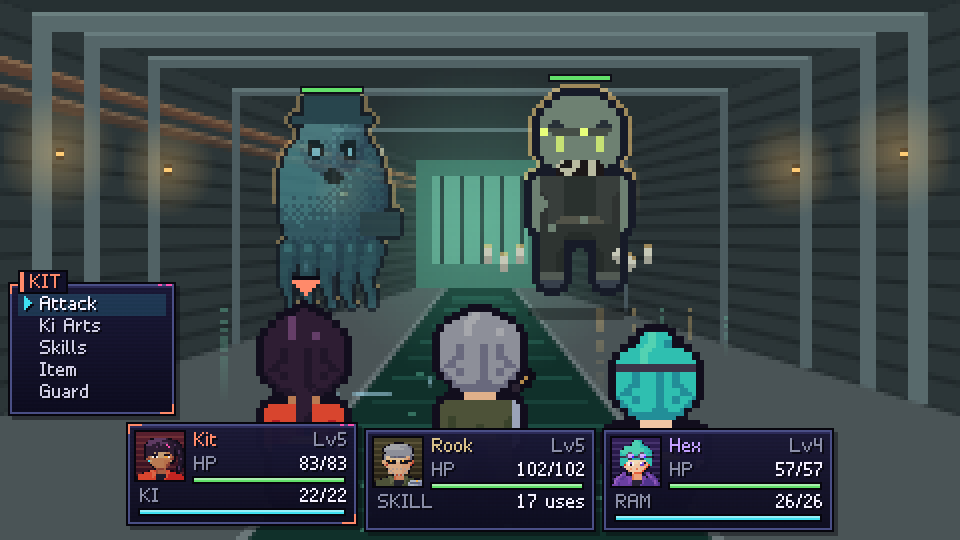
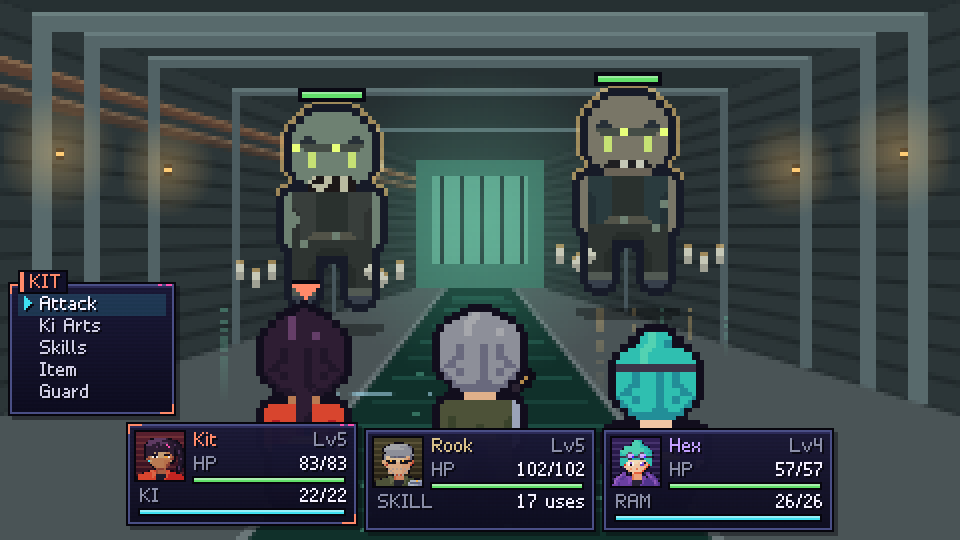
Round 5 (part 6): battle presentation
- Enemies act with their bodies: strikes rear back and lunge, guns kick, casters rise and gather light
- Heavy hits and crits stagger enemies back
- Duplicate creatures carry individual markings (unit stencils, scars, motes) on top of the palette shift
- Enemy HP bars: 3px on a solid plate, readable over neon
- The Warden's reactor room: server racks, coolant towers, ceiling pipes, sweeping alarm beacons

Changed region(s): [[0.5, 0.1185, 0.75, 0.5926], [0.25, 0.1481, 0.4375, 0.6222], [0.6562, 0.563, 0.6875, 0.5926]]

diff --git a/src/scenes/battle.ts b/src/scenes/battle.ts
@@ -615,13 +615,15 @@ export class BattleScene extends Scene<'win' | 'lose' | 'run'> {
           if (e.fx === 'flash_step' || e.fx === 'rain_hits') dd.afterimage = 22;
           sfx(e.kind === 'tech' ? 'cast' : 'swing');
         } else {
-          dd.flash = 8;
-          dd.lunge = 5;
+          // Enemies act with their bodies: strikes wind up and lunge, guns kick, casters rise and glow.
+          const motion = enemyMotion(e.fx);
+          this.setPose(actor, motion, ENEMY_POSE_T);
+          if (motion !== 'attack') dd.flash = 8;
           sfx('enemy_act');
         }
         const cry = e.kind === 'enemy' ? ABILITIES[e.id]?.cry : undefined;
         if (cry) this.say(cry);
-        await this.w(e.kind === 'attack' ? 8 : 16);
+        await this.w(actor.side === 'enemy' ? 12 : e.kind === 'attack' ? 8 : 16);
         const timing = this.fx.play(e.fx, this.pos(e.actor), e.targets.map((t) => this.pos(t)), e.element === 'shock' ? '#9ae8ff' : undefined);
         sfx(fxSound(e.fx));
         await this.w(timing.impact);
@@ -658,6 +660,7 @@ export class BattleScene extends Scene<'win' | 'lose' | 'run'> {
         dd.hp = e.hp;
         dd.shake = 12;
         dd.flash = u.side === 'enemy' ? 5 : 8;
+        if (u.side === 'enemy' && e.hp > 0 && (e.crit || e.amount >= u.base.maxHp * 0.12)) this.setPose(u, 'hurt', 16);
         if (u.side === 'party' && e.hp > 0) this.setPose(u, 'hurt', 16);
         const p = this.floatPos(e.target);
         if (e.amount === 0) this.float('NO EFFECT', p, '#8b8fa8', false);
@@ -1155,7 +1158,7 @@ export class BattleScene extends Scene<'win' | 'lose' | 'run'> {
     // Duplicates: a distinct individual where the sprite has one, else a palette and mirror.
     const who = dup ? enemyArt(ENEMIES[e.key]!.sprite, dup) : art;
     const flip = (c: HTMLCanvasElement) => (dup % 2 ? mirrored(c) : c);
-    const canvas = who.individual ? flip(who.canvas) : variant(art.canvas, dup);
+    const canvas = who.individual ? flip(who.canvas) : marked(variant(art.canvas, dup), e.family ?? '', dup);
     const glow = who.individual ? who.glow && flip(who.glow) : art.glow && variant(art.glow, dup);
     let ox = 0, oy = 0;
     switch (art.idle) {
@@ -1167,6 +1170,28 @@ export class BattleScene extends Scene<'win' | 'lose' | 'run'> {
     }
     if (dd.shake > 0) ox += dd.shake % 4 < 2 ? 2 : -2;
     oy += Math.round(dd.lunge);
+    // Body motion while acting or reeling (battle-world pixels; the party is below).
+    let castGlow = 0;
+    if (dd.poseT > 0) {
+      const k = dd.pose === 'hurt' ? 16 - dd.poseT : ENEMY_POSE_T - dd.poseT;
+      switch (dd.pose) {
+        case 'attack': // rear back, lunge down at the crew, settle
+          oy += k < 9 ? -Math.round(k / 3) : k < 15 ? Math.round((k - 9) * 1.6) - 3 : Math.max(0, 7 - (k - 15));
+          break;
+        case 'aim': // shoulder the kick
+          oy += k >= 10 && k < 16 ? -2 : 0;
+          ox += k >= 10 && k < 13 ? (e.uid % 2 ? 1 : -1) : 0;
+          break;
+        case 'cast': // lift and gather light
+          oy -= Math.round(Math.min(3, k / 3) * (k < 24 ? 1 : Math.max(0, 1 - (k - 24) / 8)));
+          castGlow = Math.sin(Math.min(1, k / 22) * Math.PI) * 0.45;
+          break;
+        case 'hurt': // knocked back, then recover
+          oy -= k < 6 ? 2 : k < 12 ? 1 : 0;
+          ox += k < 10 ? (e.uid % 2 ? 2 : -2) : 0;
+          break;
+      }
+    }
     const dx = x + ox, dy = y + oy;
     // Shadow
     if (art.shadow) {
@@ -1200,6 +1225,11 @@ export class BattleScene extends Scene<'win' | 'lose' | 'run'> {
       g.globalAlpha = alpha;
     }
     if (glow) g.drawImage(glow, dx, dy);
+    if (castGlow > 0) {
+      g.globalAlpha = alpha * castGlow;
+      g.drawImage(silhouetteCache(canvas, '#e8d8ff'), dx, dy);
+      g.globalAlpha = alpha;
+    }
     if (dd.flash > 0 && dd.flash % 4 < 2) {
       g.globalAlpha = 0.85 * alpha;
       g.drawImage(silhouetteCache(canvas, '#ffffff'), dx, dy);
@@ -1320,11 +1350,16 @@ export class BattleScene extends Scene<'win' | 'lose' | 'run'> {
       // HP bar (bosses get a wider one).
       const bw = e.boss ? 72 : 30;
       const ratio = Math.max(0, dd.shownHp / e.base.maxHp);
-      ctx.fillStyle = 'rgba(10,9,19,0.85)';
-      ctx.fillRect(cx0 - bw / 2 - 1, row - 1, bw + 2, 4);
+      // A solid dark plate and a 3px bar, so it holds up over bright signage.
+      ctx.fillStyle = '#0a0913';
+      ctx.fillRect(cx0 - bw / 2 - 2, row - 2, bw + 4, 7);
+      ctx.fillStyle = '#2a2838';
+      ctx.fillRect(cx0 - bw / 2, row, bw, 3);
       ctx.fillStyle = hpColor(ratio);
-      ctx.fillRect(cx0 - bw / 2, row, Math.round(bw * ratio), 2);
-      drawLag(ctx, cx0 - bw / 2, row, bw, 2, ratio, dd.lagHp / e.base.maxHp);
+      ctx.fillRect(cx0 - bw / 2, row, Math.round(bw * ratio), 3);
+      ctx.fillStyle = 'rgba(255,255,255,0.35)';
+      ctx.fillRect(cx0 - bw / 2, row, Math.round(bw * ratio), 1);
+      drawLag(ctx, cx0 - bw / 2, row, bw, 3, ratio, dd.lagHp / e.base.maxHp);
       row -= 11;
       // Status chips: measure, then draw (two passes, nothing allocated per frame).
       let count = 0, total = 0;
@@ -1688,6 +1723,67 @@ function opaqueTop(c: HTMLCanvasElement): number {
 
 const flipCache = new WeakMap<HTMLCanvasElement, HTMLCanvasElement>();
 /** Horizontally mirrored copy (cached): every other duplicate enemy faces the other way. */
+/** How long an enemy's action pose runs, in frames. */
+const ENEMY_POSE_T = 30;
+
+/** An enemy move's body motion, from its effect: melee strikes, gunfire, or casting. */
+function enemyMotion(fx: string): Pose {
+  if (['slash', 'claw', 'whip', 'punch', 'bite', 'crush', 'coil', 'palm'].includes(fx)) return 'attack';
+  if (['gunfire', 'shot', 'beam', 'bolt', 'zap', 'lightning', 'target_lock'].includes(fx)) return 'aim';
+  return 'cast';
+}
+
+/**
+ * Markings that make a second or third creature an individual, not a recolour: machines carry a
+ * stencilled unit number and a hazard stripe, beasts a scar, spirits a cluster of bright motes.
+ * Painted only onto opaque pixels, near the body's middle.
+ */
+const markCache = new WeakMap<HTMLCanvasElement, Map<string, HTMLCanvasElement>>();
+const DIGITS: Record<string, string[]> = {
+  '2': ['111', '001', '111', '100', '111'], '3': ['111', '001', '011', '001', '111'], '4': ['101', '101', '111', '001', '001'],
+};
+function marked(src: HTMLCanvasElement, family: string, dup: number): HTMLCanvasElement {
+  if (dup === 0 || !['machine', 'beast', 'spirit'].includes(family)) return src;
+  let m = markCache.get(src);
+  if (!m) {
+    m = new Map();
+    markCache.set(src, m);
+  }
+  const key = `${family}:${dup}`;
+  let c = m.get(key);
+  if (c) return c;
+  const w = src.width, h = src.height;
+  const s = surface(w, h);
+  s.ctx.drawImage(src, 0, 0);
+  const data = s.ctx.getImageData(0, 0, w, h).data;
+  const solid = (x: number, y: number) => x >= 0 && y >= 0 && x < w && y < h && data[(y * w + x) * 4 + 3]! > 200;
+  // Opaque bounds, to find the body's middle.
+  let x0 = w, y0 = h, x1 = 0, y1 = 0;
+  for (let y = 0; y < h; y++) for (let x = 0; x < w; x++) if (solid(x, y)) { x0 = Math.min(x0, x); y0 = Math.min(y0, y); x1 = Math.max(x1, x); y1 = Math.max(y1, y); }
+  const cx = Math.round((x0 + x1) / 2), cy = Math.round(y0 + (y1 - y0) * 0.45);
+  const dot = (x: number, y: number, col: string) => {
+    if (!solid(x, y)) return;
+    s.ctx.fillStyle = col;
+    s.ctx.fillRect(x, y, 1, 1);
+  };
+  if (family === 'machine') {
+    const glyph = DIGITS[String(Math.min(4, dup + 1))]!;
+    const gx = cx - 5, gy = cy - 2;
+    for (let j = 0; j < glyph.length; j++) {
+      for (let i = 0; i < 3; i++) if (glyph[j]![i] === '1') dot(gx + i, gy + j, '#f0e8c8');
+    }
+    for (let i = 0; i < 5; i++) dot(cx + 2 + i, cy - 4 + i, i % 2 ? '#1a1820' : '#ffcc3d');
+  } else if (family === 'beast') {
+    const dir = dup % 2 ? 1 : -1;
+    for (let i = 0; i < 6; i++) dot(cx + dir * (i - 2), cy - 3 + i, i % 3 === 1 ? '#f0c0b8' : '#c07878');
+  } else {
+    for (const [dx, dy] of [[-3, -2], [2, -3], [0, 2], [4, 1]] as const) dot(cx + dx * dup, cy + dy, '#ffffff');
+  }
+  c = s.canvas;
+  m.set(key, c);
+  return c;
+}
+
 /** Rim-light colour per battle backdrop: a light the enemies catch that the set doesn't have. */
 const RIM: Record<string, string> = {
   street: '#ffc27a', barrens: '#9ae8ff', rustyard: '#9ae8ff', park: '#ffd0f0',

diff --git a/src/art/battlebg.ts b/src/art/battlebg.ts
@@ -593,6 +593,26 @@ const MAKERS: Record<string, Maker> = {
     const s = surface(BW, BH), gl = surface(BW, BH);
     const c = s.ctx, g = gl.ctx;
     ditherV(c, 0, 0, BW, HORIZON + 4, ['#0a0612', '#1a0a1e', '#2a0e24']);
+    // Back wall: server racks with blinking status lights, pipes along the ceiling.
+    for (let x = 4; x < BW; x += 26) {
+      if (Math.abs(x + 9 - BW / 2) < 58) continue; // leave the containment ring clear
+      c.fillStyle = '#140c1a'; c.fillRect(x, 18, 18, HORIZON - 22);
+      c.fillStyle = '#221628'; c.fillRect(x + 1, 19, 16, 1);
+      for (let y = 24; y < HORIZON - 8; y += 5) {
+        c.fillStyle = '#1c1224'; c.fillRect(x + 2, y, 14, 3);
+        for (const k of [c, g]) { k.fillStyle = (x + y) % 3 ? '#62e06a' : '#ff5a4a'; k.fillRect(x + 3 + ((x * 7 + y) % 9), y + 1, 1, 1); }
+      }
+    }
+    for (const [y, col] of [[4, '#2a2030'], [8, '#241a2a'], [11, '#30243a']] as const) {
+      c.fillStyle = col; c.fillRect(0, y, BW, 2);
+      for (let x = 12; x < BW; x += 30) { c.fillStyle = '#3a3040'; c.fillRect(x, y - 1, 3, 4); }
+    }
+    // Coolant towers either side, lit bands glowing.
+    for (const tx of [14, BW - 30]) {
+      c.fillStyle = '#1a1422'; c.fillRect(tx, 14, 16, HORIZON - 12);
+      c.fillStyle = '#2a2034'; c.fillRect(tx + 2, 14, 3, HORIZON - 12);
+      for (let y = 20; y < HORIZON; y += 9) for (const k of [c, g]) { k.fillStyle = '#6ff3ff'; k.fillRect(tx + 1, y, 14, 1); }
+    }
     // Containment ring
     for (let r = 50; r > 30; r -= 1) {
       c.strokeStyle = r % 4 === 0 ? '#3a3040' : '#2a2030';
@@ -614,11 +634,21 @@ const MAKERS: Record<string, Maker> = {
     return {
       canvas: s.canvas, glow: gl.canvas, ground: 98, tint: '#6a2a4a', tintAmt: 0.2,
       anim: (ctx, f) => {
-        // Alarm sweep
-        const a = 0.12 + 0.1 * Math.sin(f * 0.1);
+        // Alarm: a lighter red pulse, and two beacon beams sweeping the ceiling.
+        const a = 0.06 + 0.05 * Math.sin(f * 0.1);
         ctx.fillStyle = '#ff2a3a';
         ctx.globalAlpha = a;
         ctx.fillRect(0, 0, BW, BH);
+        for (const [bx, ph] of [[22, 0], [BW - 22, Math.PI]] as const) {
+          const ang = Math.sin(f * 0.05 + ph) * 0.9;
+          ctx.globalAlpha = 0.18;
+          for (let r = 4; r < 70; r += 2) {
+            const w = Math.round(r * 0.35);
+            ctx.fillRect(Math.round(bx + Math.sin(ang) * r - w / 2), Math.round(12 + Math.cos(ang) * r * 0.5), w, 1);
+          }
+          ctx.globalAlpha = 0.9;
+          ctx.fillRect(bx - 1, 10, 3, 3);
+        }
         ctx.globalAlpha = 1;
       },
     };
